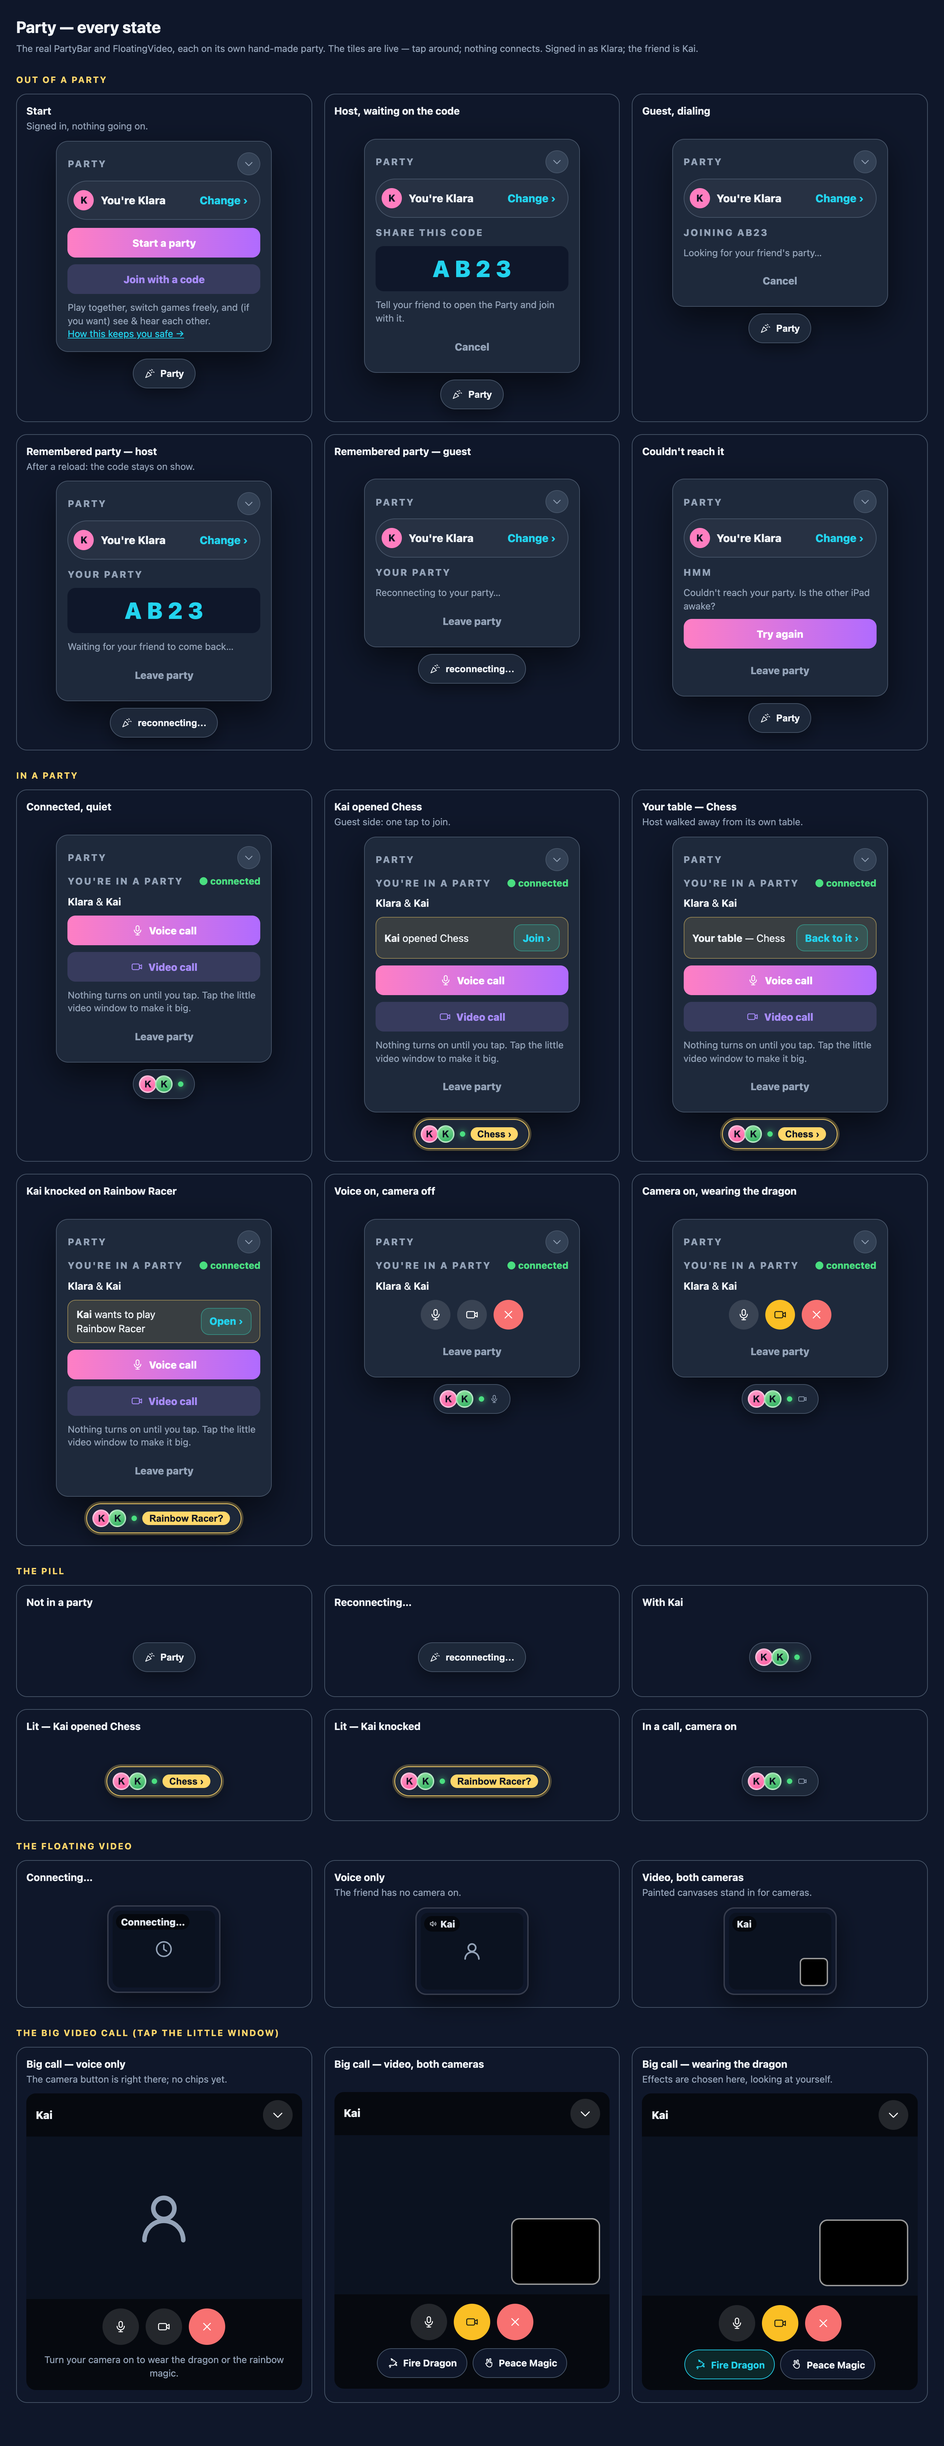
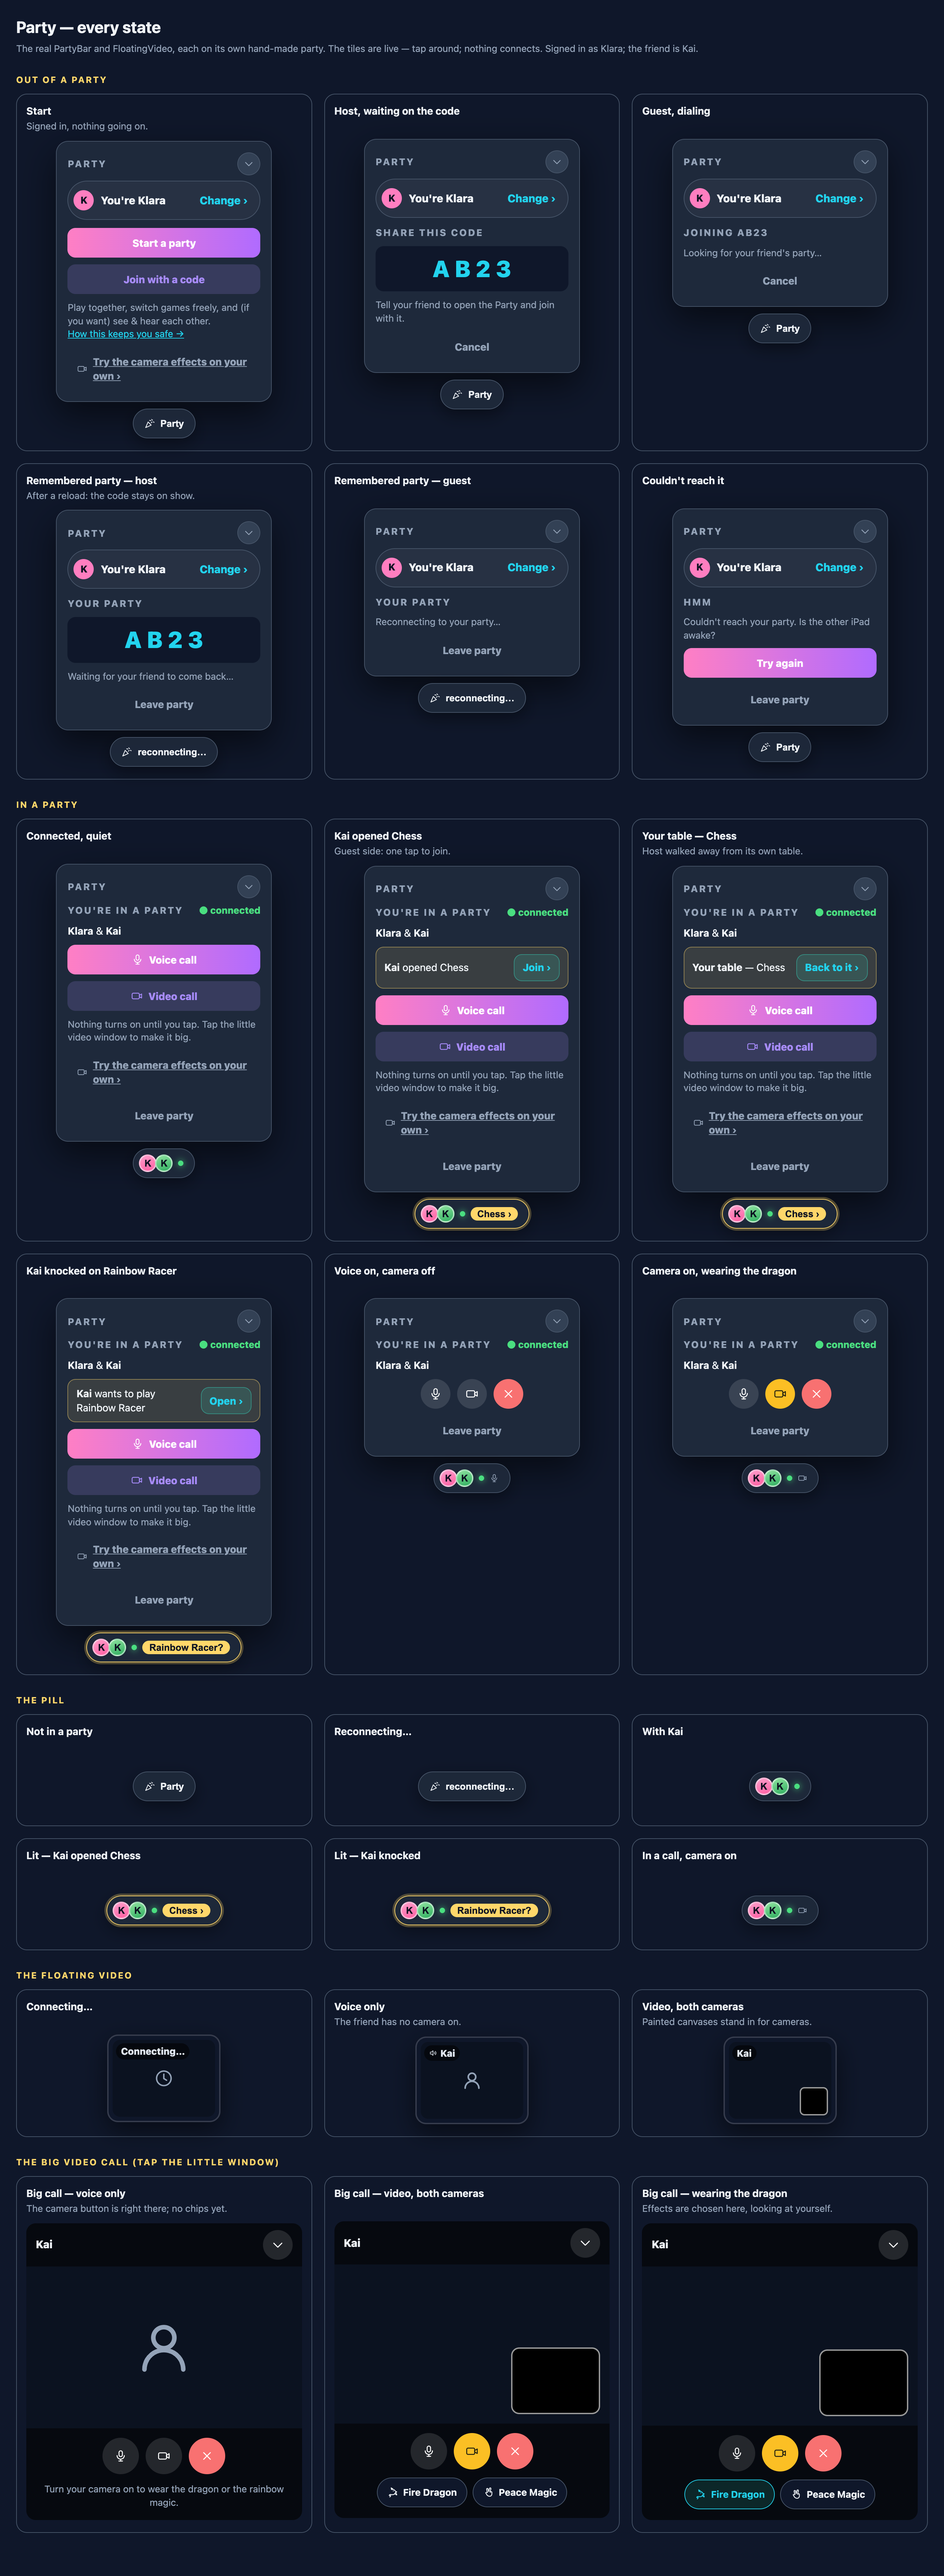
feat(party): a door to the camera effects on your own
The solo mode is the Magic Mirror, its own ticket - but people look for
it where the camera lives. The panel now offers Try the camera effects on
your own under the start doors and under the call doors, stepping aside
once a call is on. PartyBar takes soloEffects; App passes
resolveGame(mirror), so shared code stays game-blind.

Claude-Session: https://claude.ai/code/session_0146VWPAYsAFebJ5DNhYKXg7

diff --git a/src/shared/party/PartyBar.tsx b/src/shared/party/PartyBar.tsx
@@ -13,10 +13,19 @@ import { initialOf } from '@shared/profile/tickets';
 import { useProfile } from '@shared/profile/useProfile';
 import { useDismissOnEscape } from '@shared/ui/useDismissOnEscape';
 import { CameraIcon, ChevronDownIcon, CloseIcon, MicIcon, MicOffIcon, PartyIcon } from '@shared/ui/icons';
-import { useParty } from './PartyContext';
+import { useParty, type GameInfo } from './PartyContext';
 import './party.css';
 
-export function PartyBar({ initiallyOpen = false }: { /** Harness pages render the panel already open. */ initiallyOpen?: boolean } = {}) {
+export function PartyBar({
+  initiallyOpen = false,
+  soloEffects = null,
+}: {
+  /** Harness pages render the panel already open. */
+  initiallyOpen?: boolean;
+  /** Where the camera effects can be played with alone (the app names the
+   * game — shared code stays game-blind). Null: no such door. */
+  soloEffects?: GameInfo | null;
+} = {}) {
   const party = useParty();
   const { pathname } = useLocation();
   // Your ticket is your name here too — the party never asks for one. A read,
@@ -47,6 +56,13 @@ export function PartyBar({ initiallyOpen = false }: { /** Harness pages render t
   const invite = table && pathname !== table.path ? table : null;
   const knock = party.knock ? party.resolveGame(party.knock) : null;
   const lit = inParty && Boolean(invite || knock);
+  // The camera effects without a party: the door sits under the start screen
+  // and under the call doors, and steps aside once a call is on.
+  const soloDoor = soloEffects && (
+    <Link className="party-btn ghost" to={soloEffects.path} onClick={() => setOpen(false)} data-testid="party-solo-effects">
+      <CameraIcon size={18} /> Try the camera effects on your own ›
+    </Link>
+  );
 
   return (
     <aside className="party-root" aria-label="Party">
@@ -142,6 +158,7 @@ export function PartyBar({ initiallyOpen = false }: { /** Harness pages render t
                     <br />
                     <Link to="/privacy" onClick={() => setOpen(false)}>How this keeps you safe →</Link>
                   </p>
+                  {soloDoor}
                 </div>
               )}
             </>
@@ -198,6 +215,7 @@ export function PartyBar({ initiallyOpen = false }: { /** Harness pages render t
                     <CameraIcon size={18} /> Video call
                   </button>
                   <p className="party-hint">Nothing turns on until you tap. Tap the little video window to make it big.</p>
+                  {soloDoor}
                 </>
               ) : (
                 <div className="party-callctl">

diff --git a/src/shared/party/party-ui.test.tsx b/src/shared/party/party-ui.test.tsx
@@ -112,6 +112,43 @@ describe('PartyBar', () => {
     expect(screen.getByRole('dialog', { name: 'Party' })).toBeInTheDocument();
   });
 
+  describe('the door to the camera effects on your own', () => {
+    const mirror = { title: 'Magic Mirror', path: '/mirror' };
+    const renderWithDoor = (party: PartyValue) => {
+      mockParty.value = party;
+      return render(<MemoryRouter><PartyBar soloEffects={mirror} /></MemoryRouter>);
+    };
+
+    it('shows on the start screen — no party needed to play with the dragon', () => {
+      renderWithDoor(makeParty());
+      fireEvent.click(screen.getByTestId('party-pill'));
+      expect(screen.getByTestId('party-solo-effects')).toHaveAttribute('href', '/mirror');
+      expect(screen.getByTestId('party-solo-effects')).toHaveTextContent(/on your own/);
+    });
+
+    it('shows in a party before a call starts, and steps aside once the call is on', () => {
+      renderWithDoor(makeParty({ inParty: true, status: 'connected', theirName: 'Kai', role: 'host', code: 'ABCD' }));
+      fireEvent.click(screen.getByTestId('party-pill'));
+      expect(screen.getByTestId('party-solo-effects')).toHaveAttribute('href', '/mirror');
+      cleanupBar();
+
+      renderWithDoor(
+        makeParty({
+          inParty: true, status: 'connected', theirName: 'Kai', role: 'host', code: 'ABCD',
+          call: { ...makeParty().call, active: true, status: 'live' },
+        }),
+      );
+      fireEvent.click(screen.getByTestId('party-pill'));
+      expect(screen.queryByTestId('party-solo-effects')).toBeNull();
+    });
+
+    it('is simply absent when the app has no such game to point at', () => {
+      renderBar();
+      fireEvent.click(screen.getByTestId('party-pill'));
+      expect(screen.queryByTestId('party-solo-effects')).toBeNull();
+    });
+  });
+
   it('offers "Start a party" when not in a party', () => {
     renderBar();
     fireEvent.click(screen.getByTestId('party-pill'));

diff --git a/src/app/preview-party-states.tsx b/src/app/preview-party-states.tsx
@@ -229,7 +229,7 @@ createRoot(document.getElementById('root')!).render(
                     {t.show === 'video' || t.show === 'call' ? (
                       <FloatingVideo initiallyExpanded={t.show === 'call'} />
                     ) : (
-                      <PartyBar initiallyOpen={t.show === 'panel'} />
+                      <PartyBar initiallyOpen={t.show === 'panel'} soloEffects={{ title: 'Magic Mirror', path: '/mirror' }} />
                     )}
                   </PartyCtx.Provider>
                 </div>

diff --git a/src/app/App.tsx b/src/app/App.tsx
@@ -45,7 +45,9 @@ export function App() {
               ))}
             </Routes>
           </main>
-          <PartyBar />
+          {/* The party panel can send you to play with the camera effects
+              alone — the Magic Mirror, if the registry has it. */}
+          <PartyBar soloEffects={resolveGame('mirror')} />
           <FloatingVideo />
         </PartyProvider>
       </ErrorBoundary>
